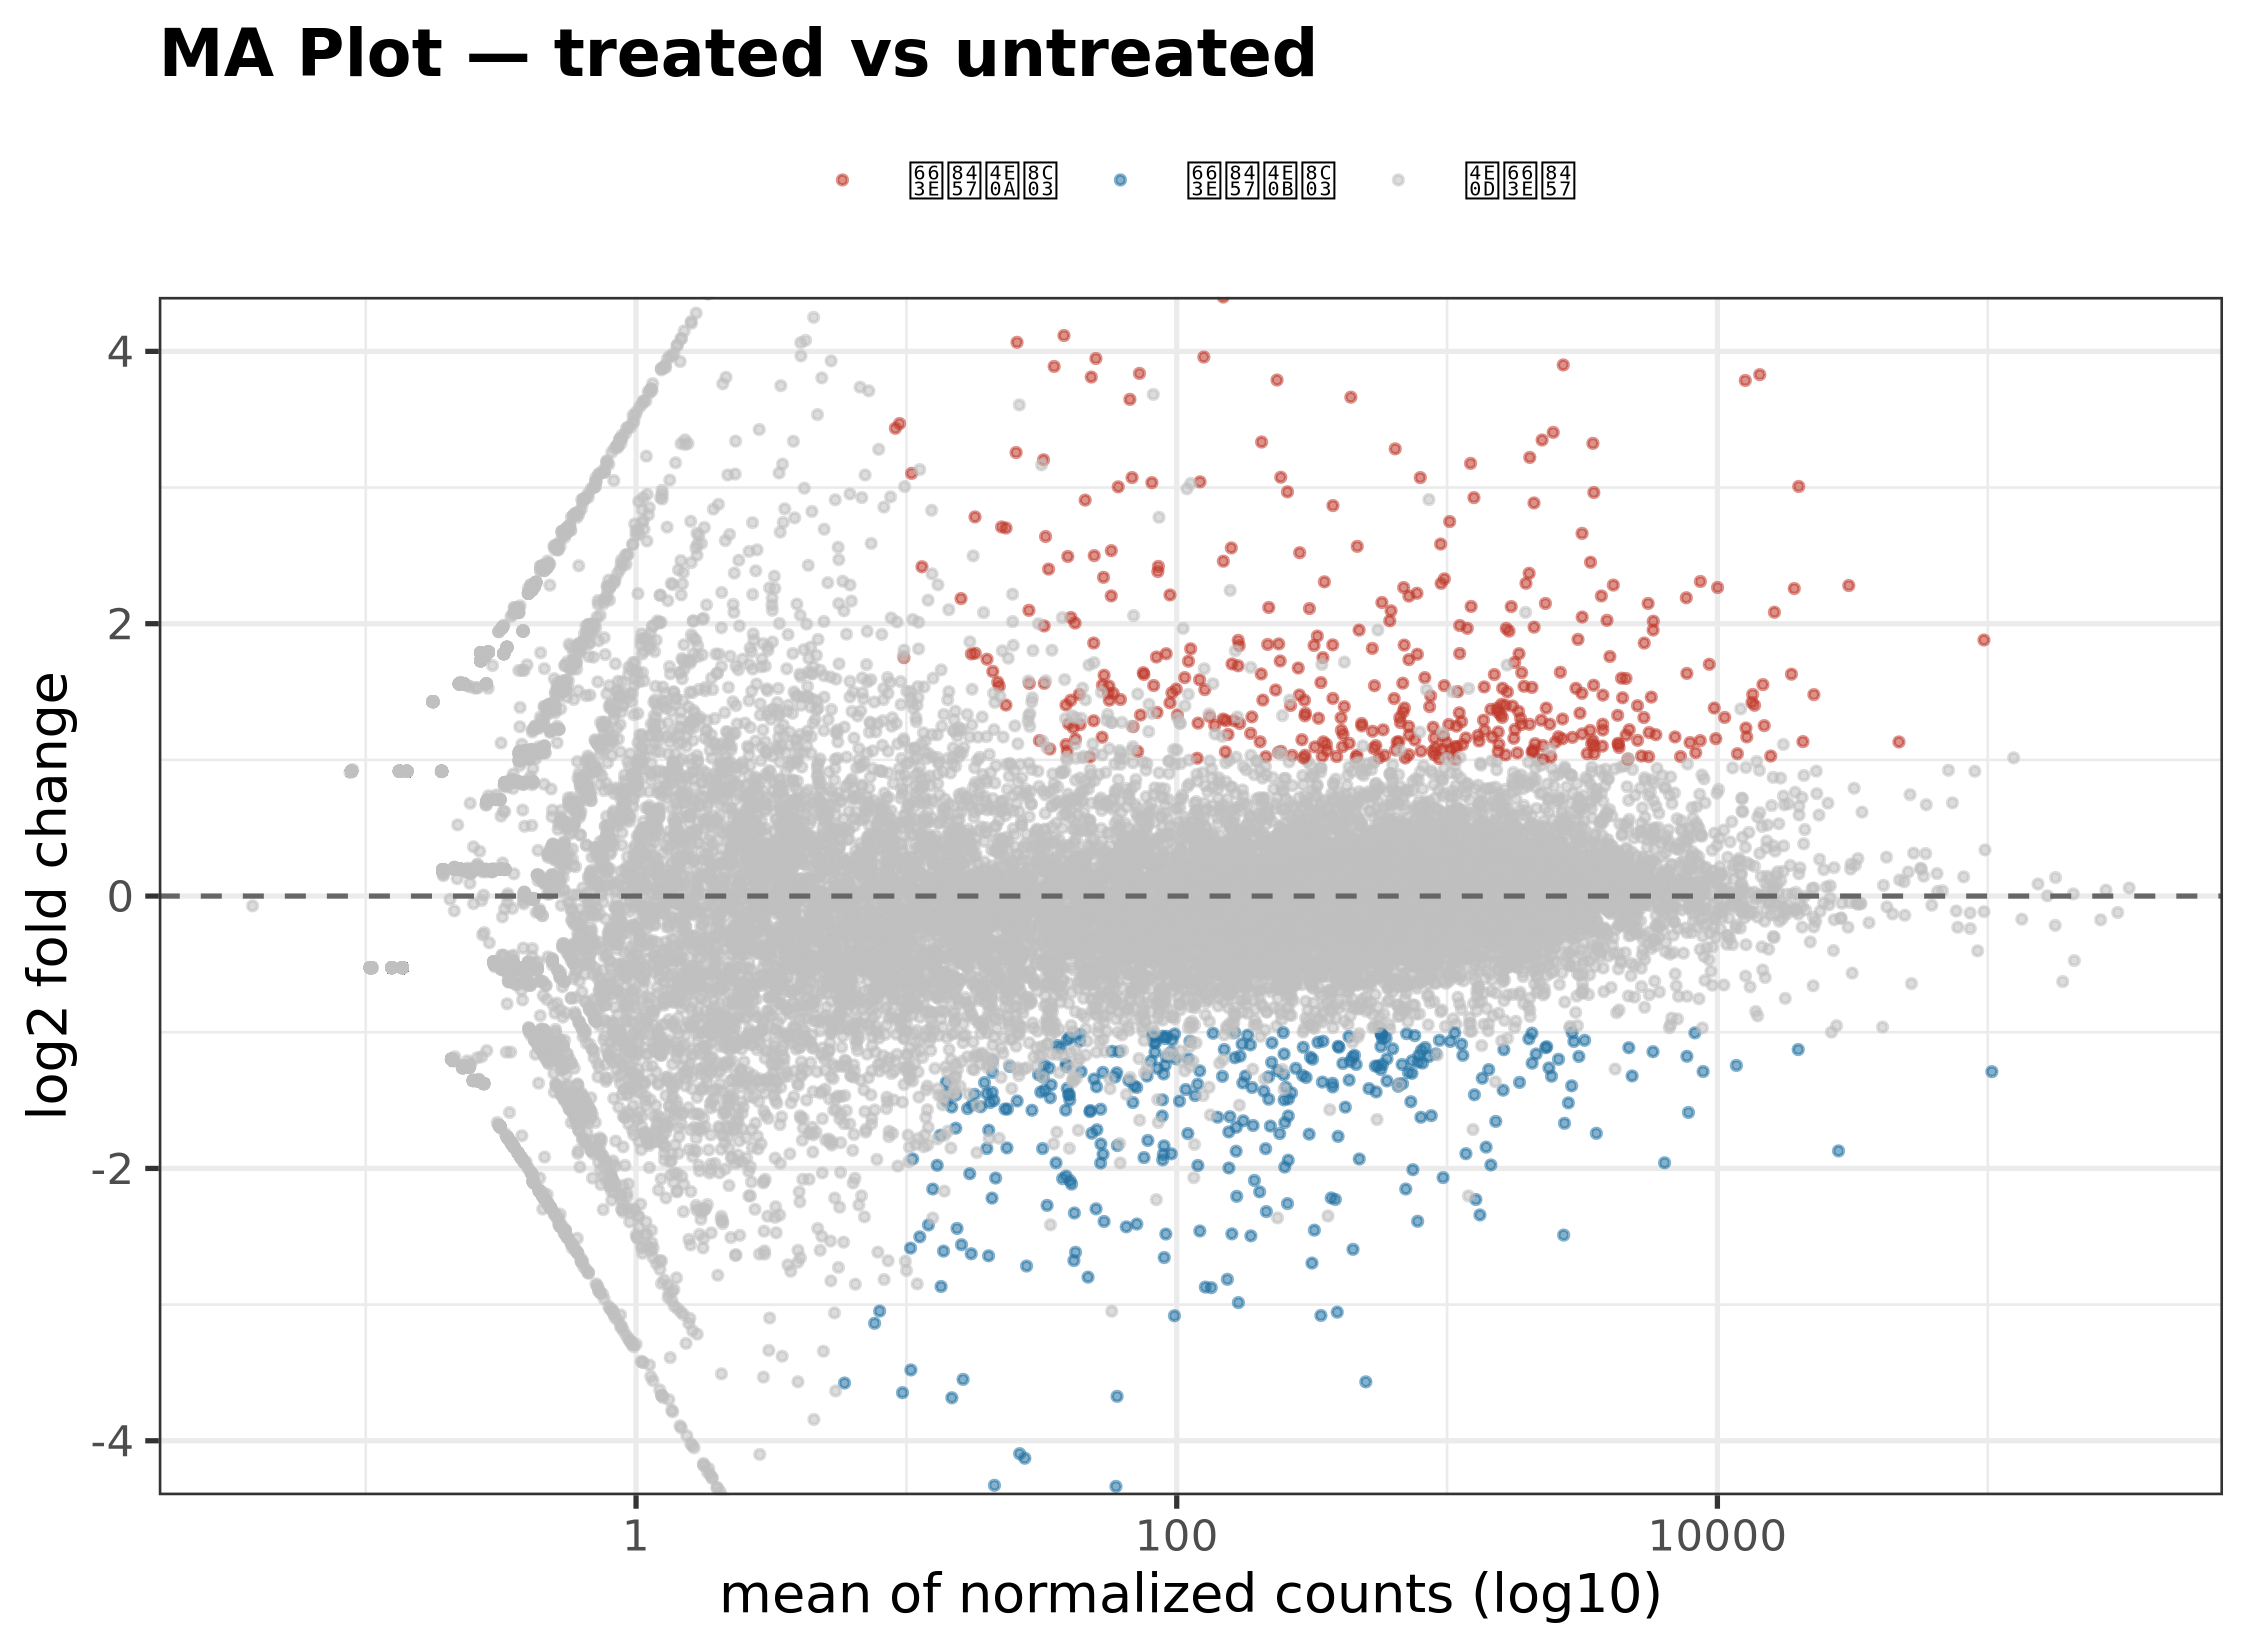
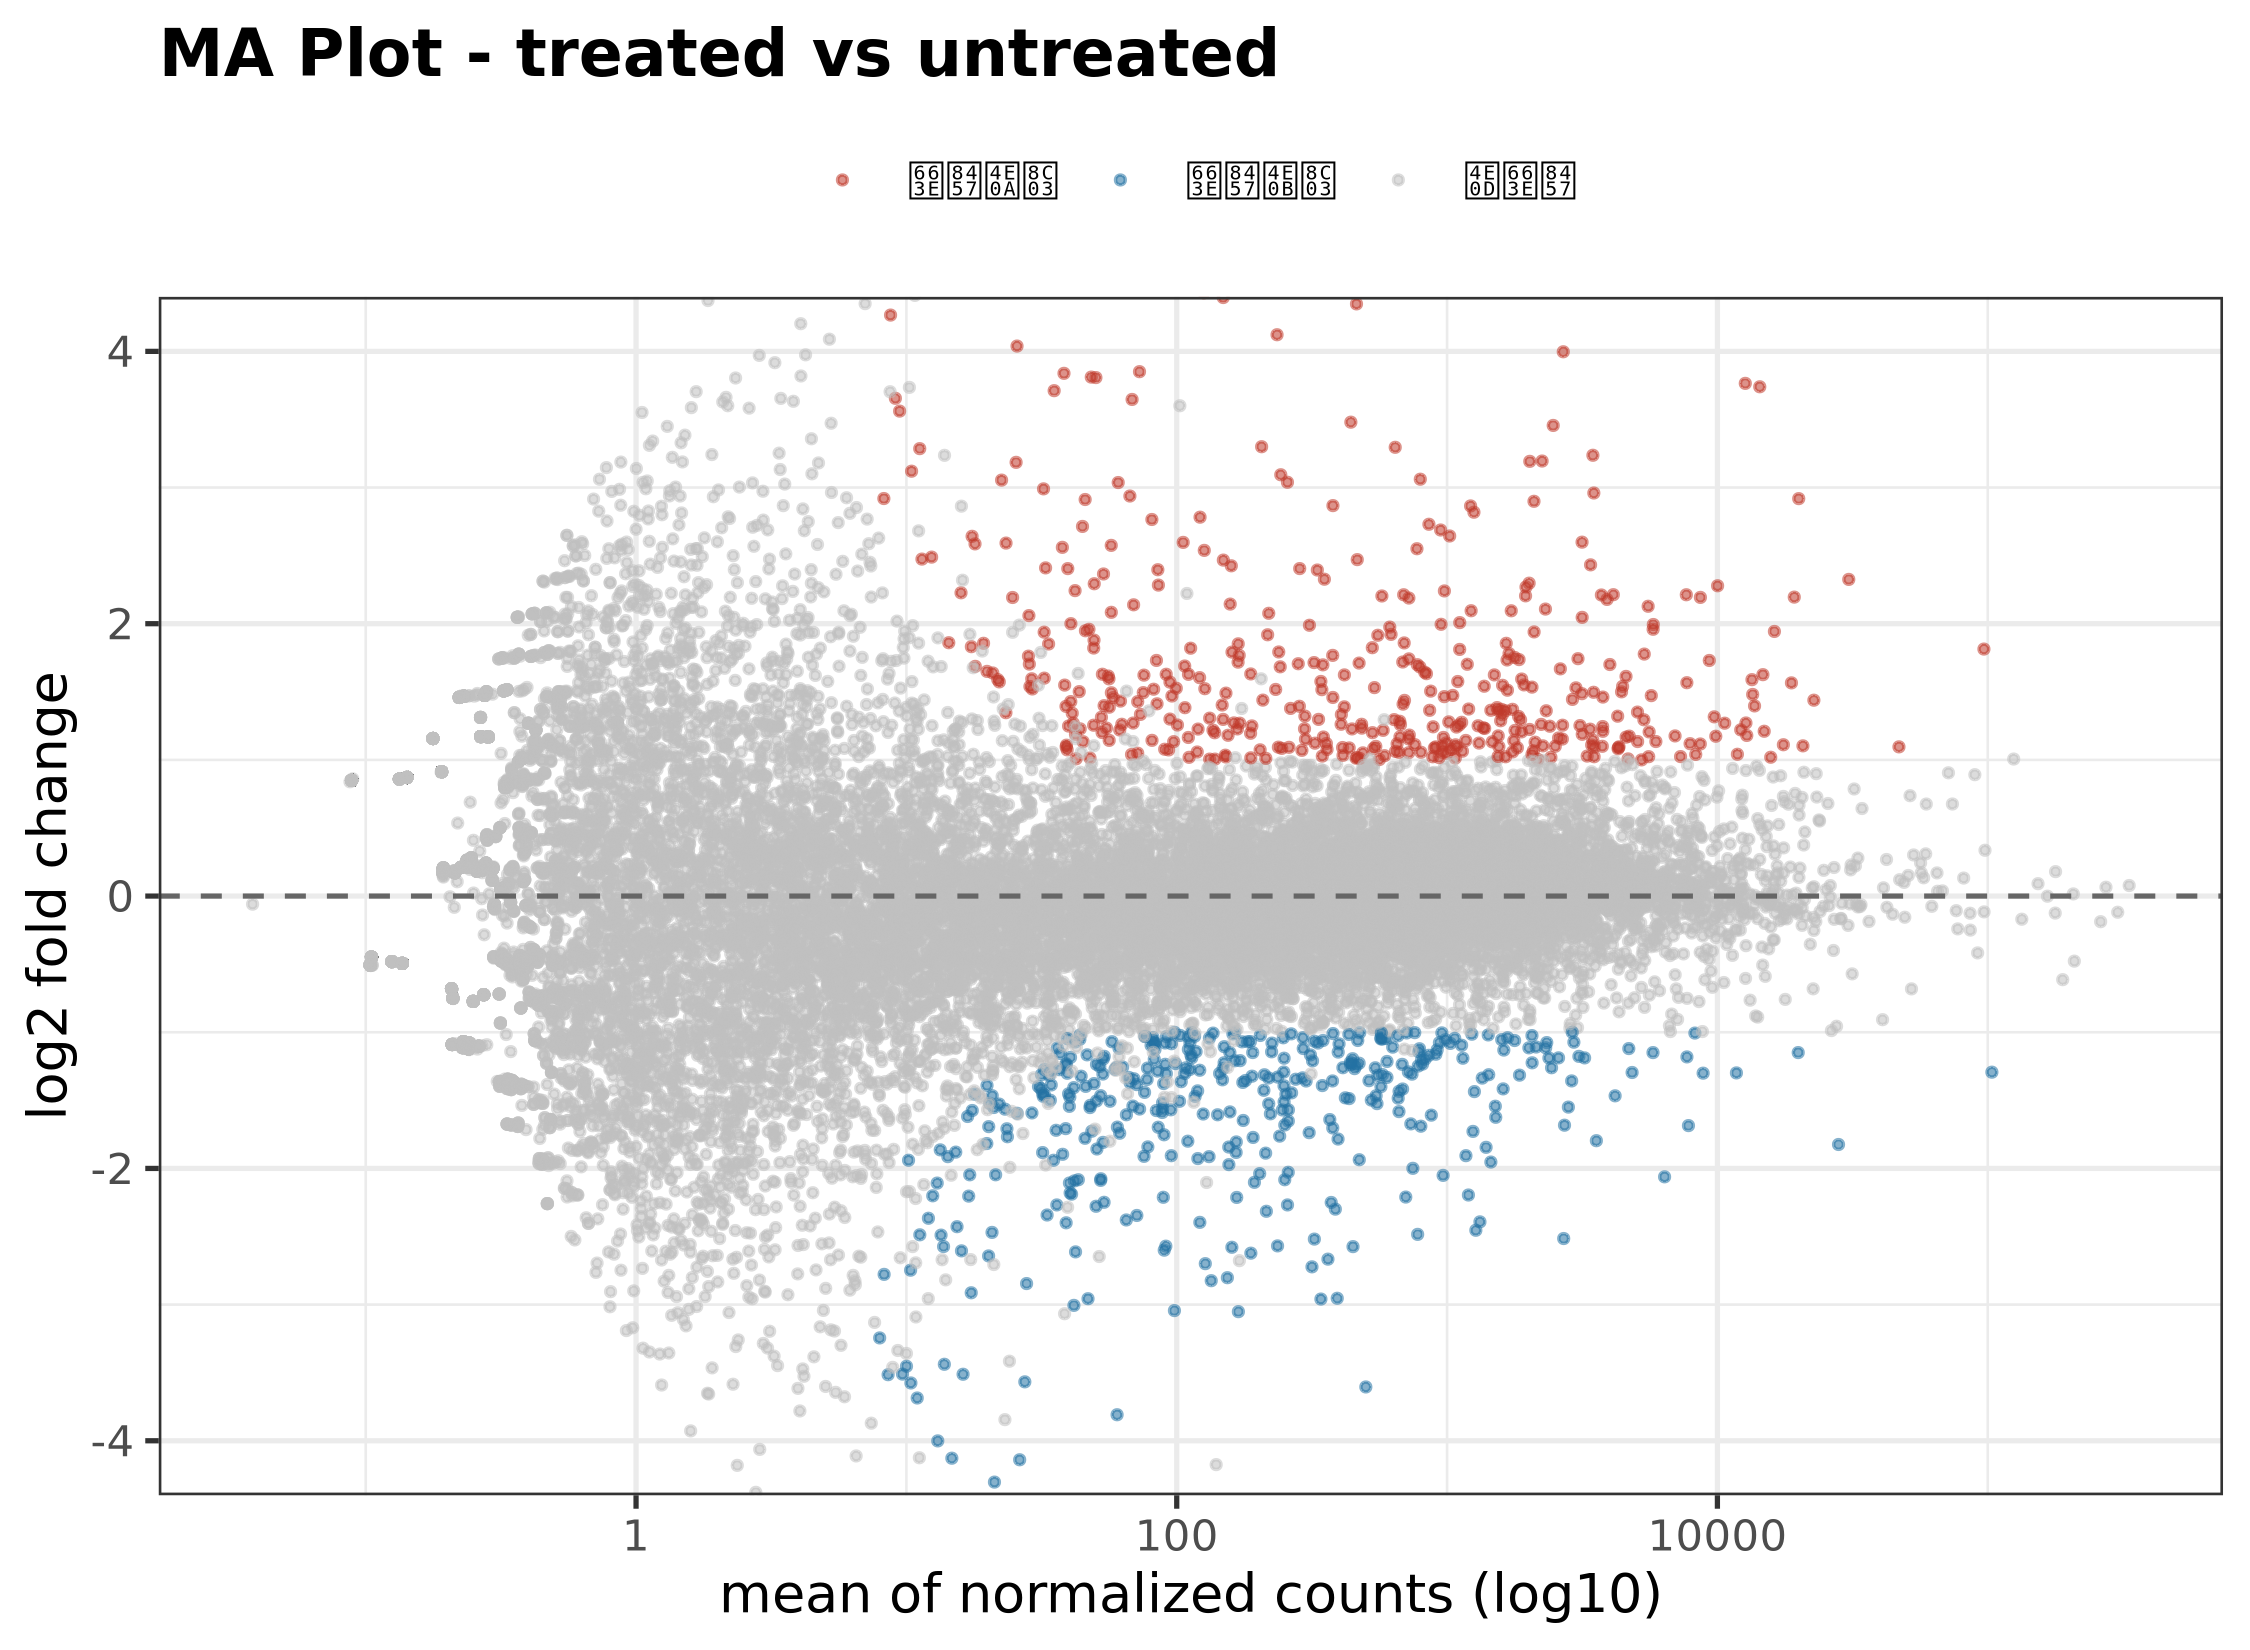
Use paired DESeq2 design and refresh results

diff --git a/README.md b/README.md
@@ -53,11 +53,11 @@ rnaseq-project/
 以下数字来自本项目的一次本机运行快照，用于说明预期输出；对应结果文件和图片不随仓库分发。
 
 - 差异分析覆盖 **34,712 个基因**。
-- 按 `padj < 0.05` 判定，共有 **2,140 个显著基因**，其中上调 **1,208 个**、下调 **932 个**。
-- 若在 `padj < 0.05` 的基础上再要求 `|log2FC| > 1`，则得到上调 **383 个**、下调 **325 个**。
-- 按 `padj` 排序，靠前的基因包括 **SPARCL1**、**PER1** 和 **ARHGEF2**。
-- **ZBTB16** 是代表性显著上调基因：`log2FC = +5.61`，`padj = 3.56e-41`。
-- 本次 GO BP 结果包含 **741 个显著条目**，KEGG 结果包含 **109 条显著通路**。在线数据库更新或重新运行可能产生变化。
+- 按 `padj < 0.05` 判定，共有 **3,387 个显著基因**，其中上调 **1,843 个**、下调 **1,544 个**。
+- 若在 `padj < 0.05` 的基础上再要求 `|log2FC| > 1`，则得到上调 **441 个**、下调 **403 个**。
+- 按 `padj` 排序，靠前的基因包括 **ZBTB16**、**DUSP1** 和 **NEXN**。
+- **ZBTB16** 是最显著的上调基因：`log2FC = +5.68`，`padj = 3.79e-130`。
+- 本次 GO BP 结果包含 **1,350 个显著条目**，KEGG 结果包含 **141 条显著通路**。在线数据库更新或重新运行可能产生变化。
 
 ## 结果输出
 
@@ -77,9 +77,9 @@ rnaseq-project/
 
 ## 结果解释
 
-`padj` 是经过 Benjamini-Hochberg 多重检验校正后的显著性指标，不包含效应量阈值。`log2FC` 表示处理组相对于对照组的表达变化幅度，正值为上调、负值为下调。因此，2,140 个显著基因与 708 个同时满足 `|log2FC| > 1` 的基因属于两个不同的筛选层级，应分别说明。
+`padj` 是经过 Benjamini-Hochberg 多重检验校正后的显著性指标，不包含效应量阈值。`log2FC` 表示处理组相对于对照组的表达变化幅度，正值为上调、负值为下调。因此，3,387 个显著基因与 844 个同时满足 `|log2FC| > 1` 的基因属于两个不同的筛选层级，应分别说明。
 
-当前 `deseq2.R` 使用 `design=~condition` 进行简化分析，没有把细胞系作为配对因素加入模型。GSE52778 的 4 个细胞系均包含配对的处理与对照样本，因此在更严格的复现中可改为 `~ cell + condition`。本轮文档保留现有分析结果，并将配对建模列为后续改进项。
+当前 `deseq2.R` 使用 `design=~cell + condition` 配对模型：GSE52778 的 4 个细胞系（N61311、N052611、N080611、N061011）各含一对处理/对照样本，模型中先扣除细胞系基线表达差异，再估计地塞米松处理效应，符合该数据集的配对实验设计。
 
 ## 快速开始
 
@@ -89,15 +89,15 @@ rnaseq-project/
 # 已准备好 ref/ 和 quant/ 后执行
 mkdir -p results
 cat > results/coldata.txt <<'EOF'
-sample condition
-SRR1039508 untreated
-SRR1039509 treated
-SRR1039512 untreated
-SRR1039513 treated
-SRR1039516 untreated
-SRR1039517 treated
-SRR1039520 untreated
-SRR1039521 treated
+sample condition cell
+SRR1039508 untreated N61311
+SRR1039509 treated N61311
+SRR1039512 untreated N052611
+SRR1039513 treated N052611
+SRR1039516 untreated N080611
+SRR1039517 treated N080611
+SRR1039520 untreated N061011
+SRR1039521 treated N061011
 EOF
 
 python3 scripts/make_tx2gene.py
@@ -133,7 +133,7 @@ Rscript scripts/plot_ggplot2.R
 ## 数据与分析边界
 
 - GSE52778 是公开的真实数据，本项目用于展示和复现标准 RNA-seq 分析流程。
-- 当前结果基于简化非配对模型，不能替代加入细胞系协变量后的正式差异分析。
+- 当前结果使用 `~cell + condition` 配对模型；每个细胞系仅有一对处理/对照样本，残余自由度为 3，结果解释仍应保持谨慎。
 - 下载链接、KEGG 在线数据库和注释版本可能随时间变化。
 - FASTQ、参考文件、salmon 索引、`quant/`、`results/` 和 `figures/` 不随仓库分发，完整复现需要重新下载和计算。
 - `docs/images/` 仅保留 README 展示所需的四张 PNG；PDF 和完整结果目录仍不纳入版本控制。

diff --git a/rnaseq_salmon_guide.md b/rnaseq_salmon_guide.md
@@ -2,7 +2,7 @@
 
 本指南用于复现 GSE52778「airway」数据集的处理流程：从 ENA 下载 paired-end 50bp FASTQ，使用 FastQC/MultiQC 质控、salmon 定量、tximport 汇总和 DESeq2 差异分析，最后完成 ggplot2 可视化与 GO/KEGG 富集。
 
-> 数据集包含 8 个气道平滑肌细胞样本，即 4 对细胞系的处理与对照。当前 `deseq2.R` 使用 `design=~condition` 的简化非配对模型；更严格的复现可加入细胞系协变量，使用 `~ cell + condition`。
+> 数据集包含 8 个气道平滑肌细胞样本，即 4 对细胞系的处理与对照。`deseq2.R` 使用 `design=~cell + condition` 配对模型：先扣除 4 个细胞系（N61311、N052611、N080611、N061011）的基线表达差异，再估计地塞米松处理效应。
 >
 > 本指南在 conda 命令中显式使用 `conda-forge` 和 `bioconda`。国内网络下载缓慢时可额外配置清华镜像，但安装命令的渠道声明保持不变。
 
@@ -217,15 +217,15 @@ done
 ```bash
 mkdir -p results
 cat > results/coldata.txt <<'EOF'
-sample condition
-SRR1039508 untreated
-SRR1039509 treated
-SRR1039512 untreated
-SRR1039513 treated
-SRR1039516 untreated
-SRR1039517 treated
-SRR1039520 untreated
-SRR1039521 treated
+sample condition cell
+SRR1039508 untreated N61311
+SRR1039509 treated N61311
+SRR1039512 untreated N052611
+SRR1039513 treated N052611
+SRR1039516 untreated N080611
+SRR1039517 treated N080611
+SRR1039520 untreated N061011
+SRR1039521 treated N061011
 EOF
 
 python3 scripts/make_tx2gene.py
@@ -242,12 +242,12 @@ Rscript scripts/deseq2.R
 `deseq2.R` 执行以下步骤：
 
 1. 使用 `tximport` 按 `tx2gene.tsv` 将转录本定量汇总到基因级。
-2. 从 `coldata.txt` 读取样本分组。
+2. 从 `results/coldata.txt` 读取样本分组（含细胞系与处理信息）。
 3. 使用 `DESeqDataSetFromTximport()` 和 `DESeq()` 完成差异分析。
 4. 通过 `results(..., contrast=c("condition", "treated", "untreated"))` 提取处理组相对对照组的结果。
 5. 将 `results/deseq2_results.txt`、`figures/MAplot.*` 和 `figures/volcano.*` 写入本地输出目录。
 
-当前脚本使用 `design=~condition`。该模型忽略样本之间的细胞系配对关系，因此结果是简化分析，不等同于 GSE52778 的正式配对模型。后续可将细胞系写入 `coldata.txt`，并把设计改为 `~ cell + condition`。
+当前脚本使用 `design=~cell + condition` 配对模型。GSE52778 的 4 个细胞系各含一对处理/对照样本，模型中先扣除细胞系基线表达差异，再估计处理效应，符合配对实验设计。
 
 `results/` 和 `figures/` 已加入 `.gitignore`。运行这些脚本不会改变 Git 跟踪状态，也不会把结果上传到 GitHub。
 
@@ -295,10 +295,10 @@ Rscript scripts/plot_ggplot2.R
 - `quant/SRRxxxx/quant.sf` 对 8 个样本均存在。
 - `results/tx2gene.tsv` 和 `results/id2name.tsv` 非空。
 - `results/deseq2_results.txt` 包含 34,712 个基因的差异分析结果。
-- 按 `padj < 0.05` 统计得到 2,140 个显著基因，其中上调 1,208 个、下调 932 个。
-- 同时要求 `|log2FC| > 1` 时，得到上调 383 个、下调 325 个。
-- 当前结果中 ZBTB16 的 `log2FC = +5.61`、`padj = 3.56e-41`；按 `padj` 排序靠前的基因包括 SPARCL1、PER1 和 ARHGEF2。
-- GO BP 和 KEGG 结果表及气泡图正常生成。本机运行快照为 GO 741 条、KEGG 109 条，重新运行可能变化。
+- 按 `padj < 0.05` 统计得到 3,387 个显著基因，其中上调 1,843 个、下调 1,544 个。
+- 同时要求 `|log2FC| > 1` 时，得到上调 441 个、下调 403 个。
+- 当前结果中 ZBTB16 的 `log2FC = +5.68`、`padj = 3.79e-130`，按 `padj` 排序为第 1；靠前基因还包括 DUSP1、NEXN 和 SAMHD1。
+- GO BP 和 KEGG 结果表及气泡图正常生成。本机运行快照为 GO 1,350 条、KEGG 141 条，重新运行可能变化。
 
 可使用以下命令检查样本表、映射表、结果规模和主要统计量：
 
